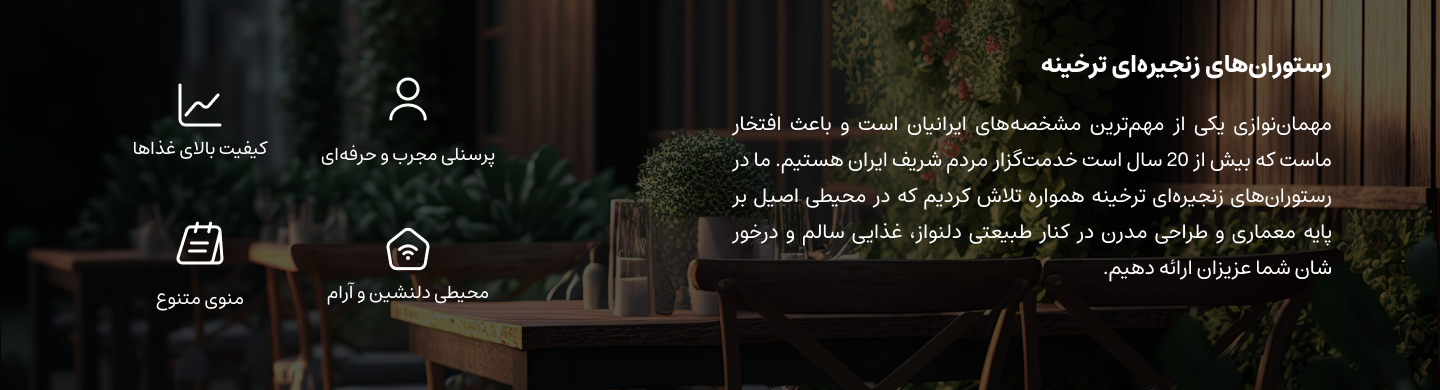
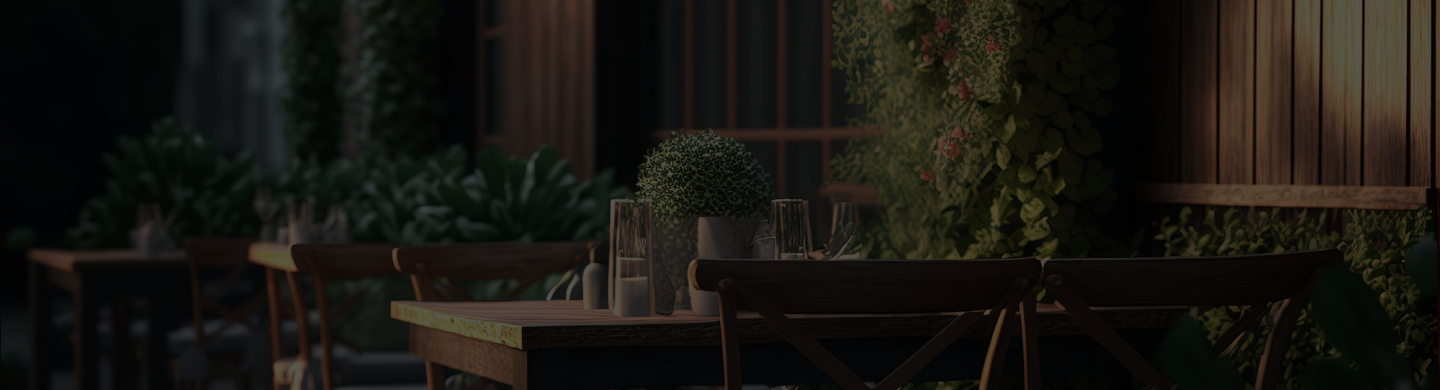
WIP

diff --git a/home.html b/home.html
@@ -120,27 +120,29 @@
           <h4 class="text-center"> منو رستوران</h4>
           <div class="row">
             <div class="column">
-              <img src="/image/main-course.png" alt="">
+              <img src="./image/main-course.png" alt="">
               <button class="border-0 px-4 py-2 text-center">غذای اصلی </button>
             </div>
             <div class="column">
-              <img src="/image/starter.png" alt="">
+              <img src="./image/starter.png" alt="">
               <button class="border-0  px-4 py-2 text-center">پیش غذا</button>
             </div>
             <div class="column">
-              <img src="/image/dessert.png" alt="">
+              <img src="./image/dessert.png" alt="">
               <button class="border-0  px-4 py-2 text-center">دسر</button>
             </div>
             <div class="column">
-              <img src="/image/drink.png" alt="">
+              <img src="./image/drink.png" alt="">
               <button class="border-0 px-4 py-2 text-center">نوشیدنی</button>
             </div>
           </div>
         </div>
     </div>
-    <div class="aboutSlider w-100">
-      <img src="./image/about-slider.png" alt="">
-      <button class="px-4 py-2"> اطلاعات بیشتر</button>
+    <div class="aboutSlider ">
+      
+     
+        
+     
     </div>
 
     

diff --git a/css/style.css b/css/style.css
@@ -1,6 +1,6 @@
 @import url("https://v1.fontapi.ir/css/Estedad");
 * {
-  max-width: 1440px;
+
   box-sizing: content-box;
   font-family: Estedad, sans-serif;
 }
@@ -17,6 +17,7 @@ carousel-item {
   gap: 5px;
 }
 .order {
+  border: none;
   background-color: #417f56;
   color: #fff;
   padding: 1rem 2.5rem;
@@ -49,7 +50,7 @@ form {
   display: grid;
   column-gap: 15px;
   justify-items: center;
-  row-gap: 250px;
+  row-gap: 240px;
   grid-template-columns: repeat(auto-fit, minmax(250px, 1fr));
 }
 .column {
@@ -74,7 +75,8 @@ form {
 }
 
 .aboutSlider{
-  position: relative;
+ background-image: url("../image/about-slider.png");
+ background-size: cover;
   button{
     position: absolute;
     bottom:10%;
